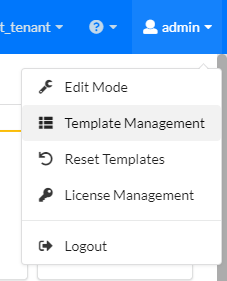
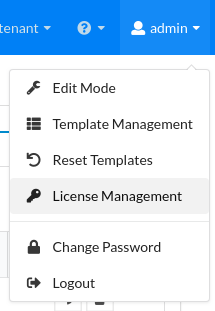
Add information about "CY-2908: Add Change Password option in UI top menu"

diff --git a/content/working_with/console/_index.md b/content/working_with/console/_index.md
@@ -19,6 +19,8 @@ This document describes all the pages and functionality that are available to `a
 
 Cloudify Manager supports user management, so users must log in with user credentials. User credentials can be defined in Cloudify from an LDAP system, whether the LDAP system is integrated with Cloudify or derived from an external LDAP user management system.
 
+Once you log in, you can change your password by clicking username in the upper right corner of the screen and choosing **Change Password** option.
+
 ### Dashboard Pages
 The user interface displays a predefined set of dashboard pages, each of which contains a set of widgets. Widgets are organized on a page to optimize the display of relevant data. The dashboard pages that you see depend on whether you have an `admin` or `user` role.
 
